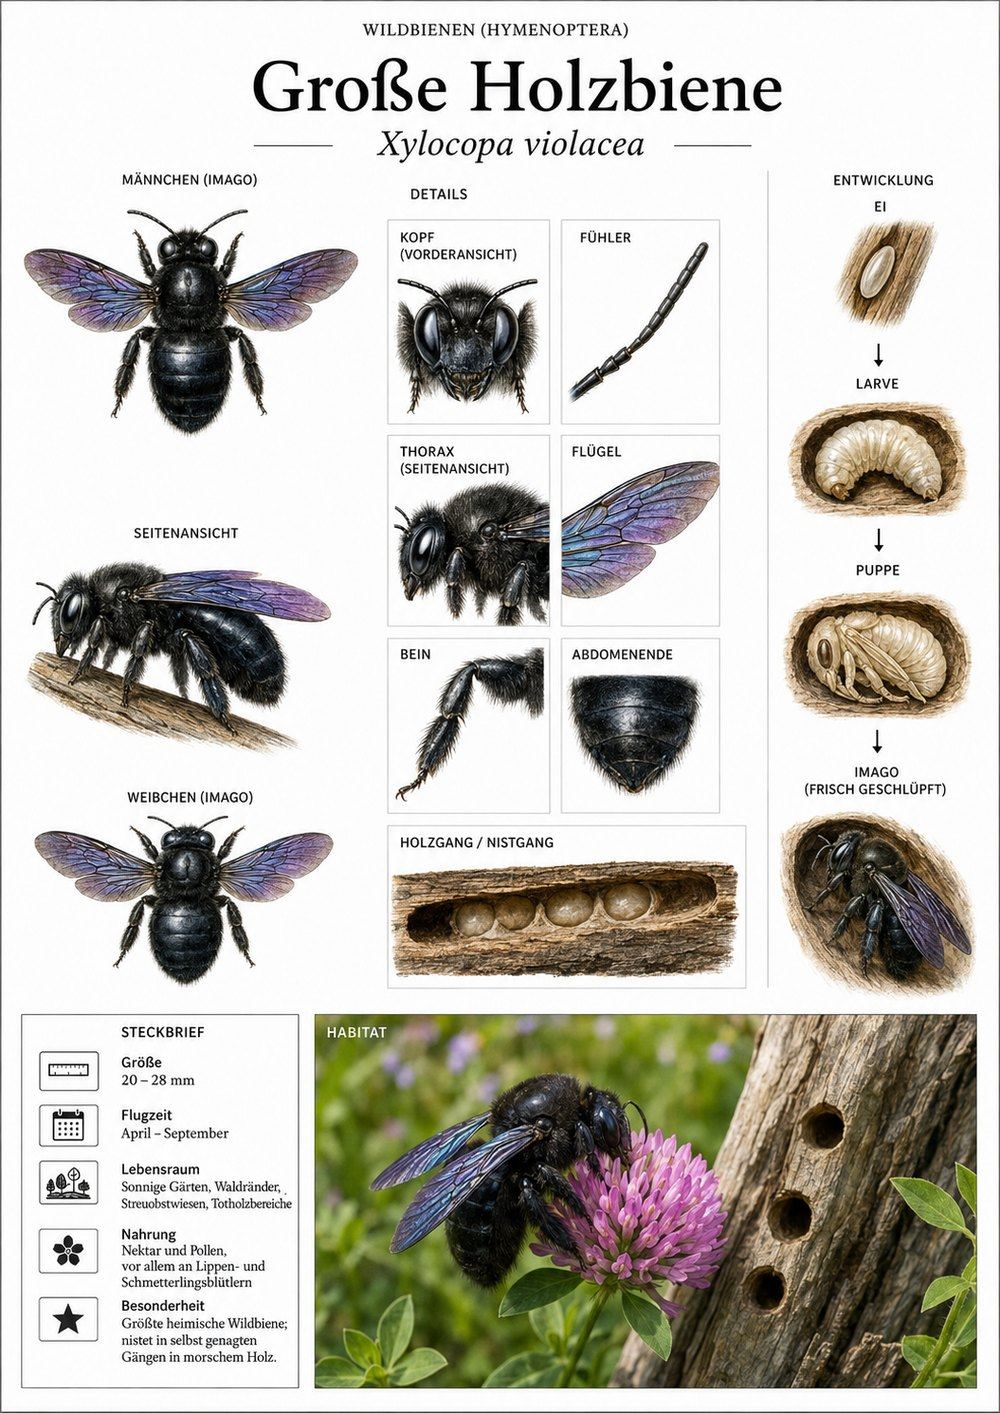
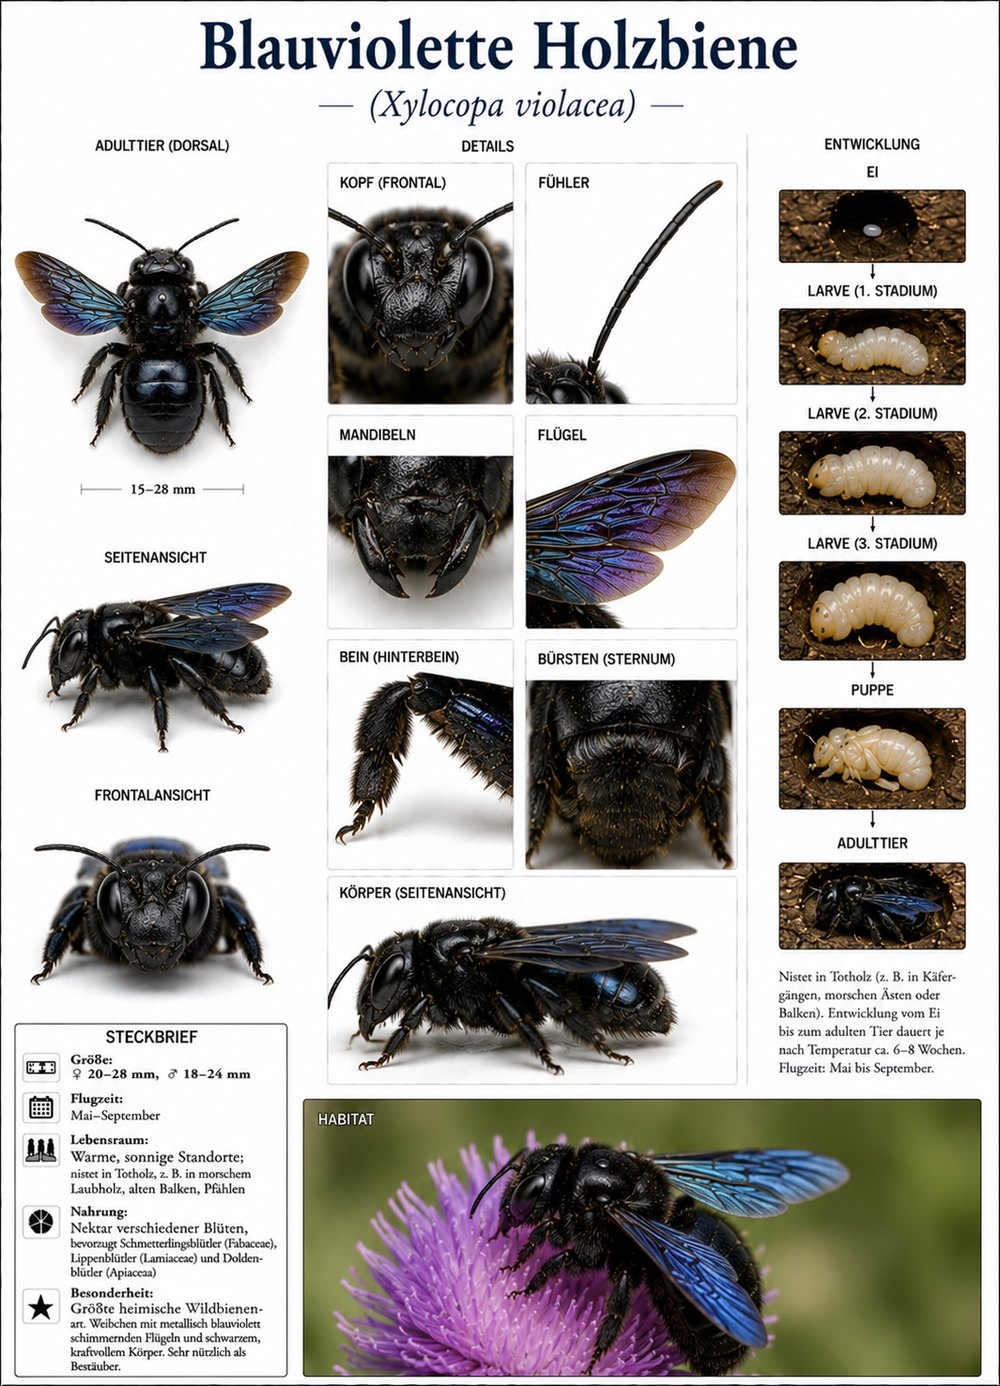
fauna: HD-Tafeln (Fleckenbiene, Langhornbiene, Trauerbiene) + Holzbiene→Blauviolette Holzbiene + SW v56/Media v4

diff --git a/arten/grosse-holzbiene.html b/arten/grosse-holzbiene.html
@@ -3,8 +3,8 @@
 <head>
 <meta charset="UTF-8">
 <meta name="viewport" content="width=device-width, initial-scale=1.0">
-<title>Große Holzbiene · Artseite · Fauna Mibaso</title>
-<meta name="description" content="Große Holzbiene (Xylocopa violacea): naturkundliche Tafel und Wissenswertes – Fauna Mibaso.">
+<title>Blauviolette Holzbiene · Artseite · Fauna Mibaso</title>
+<meta name="description" content="Blauviolette Holzbiene (Xylocopa violacea): naturkundliche Tafel und Wissenswertes – Fauna Mibaso.">
 <style>
   :root{
     --blau:#233D5C; --creme:#F7F3E8; --creme-tief:#EEE7D5;
@@ -44,18 +44,18 @@
 <body>
 <div class="huelle">
   <a class="zurueck" href="../interaktiv/stammbaum.html">‹ Stammbaum</a> <span style="color:#aab3bd">·</span> <a class="zurueck" href="../index.html">Startseite</a>
-  <p class="brot">Insekten › Hautflügler › Echte Bienen</p>
+  <p class="brot">Insekten › Hautflügler › Bienen & Hummeln</p>
 
   <div class="tafel">
-    <img src="../images/tafeln/grosse-holzbiene.jpg" alt="Naturkundliche Lehrtafel: Große Holzbiene (Xylocopa violacea)">
+    <img src="../images/tafeln/grosse-holzbiene.jpg" alt="Naturkundliche Lehrtafel: Blauviolette Holzbiene (Xylocopa violacea)">
   </div>
 
-  <h1>Große Holzbiene</h1>
+  <h1>Blauviolette Holzbiene</h1>
   <p class="lat">Xylocopa violacea</p>
   <div class="raenge">
     <span class="chip"><b>Klasse</b> Insekten</span>
     <span class="chip"><b>Ordnung</b> Hautflügler</span>
-    <span class="chip"><b>Familie</b> Echte Bienen</span>
+    <span class="chip"><b>Familie</b> Bienen & Hummeln</span>
   </div>
 
   <h3 class="abschnitt">Der blau schillernde Brummer</h3>

diff --git a/interaktiv/schluessel.html b/interaktiv/schluessel.html
@@ -247,6 +247,9 @@ const KNOTEN = {
       {t:"Klein: gelber Kragen, gelbes Band, rotorange Spitze; sehr früh", sw:"#C8531F", kurz:"klein, rote Spitze", ziel:"a_wiesenhummel"},
       {t:"Schlanker, nur bräunlich behaart; am Bienenstock oder an Waben", sw:"#8a6a3a", kurz:"Honigbiene", ziel:"a_honigbiene"},
       {t:"Kompakt, schwirrt im zeitigen Frühjahr an Lungenkraut/Taubnessel", sw:"#5a4a3a", kurz:"Pelzbiene", ziel:"a_gemeine-pelzbiene"},
+      {t:"Pelzig; Männchen mit körperlangen Fühlern (an Klee/Wicken)", sw:"#8a6a3a", kurz:"Langhornbiene", ziel:"a_mai-langhornbiene"},
+      {t:"Schwarz mit weißen Haarbüscheln (Kuckucksbiene)", sw:"#2c2c2c", kurz:"Trauerbiene", ziel:"a_gemeine-trauerbiene"},
+      {t:"Schwarz mit blau-weißen Punktreihen (Kuckucksbiene)", sw:"#2f4a8a", kurz:"Fleckenbiene", ziel:"a_fleckenbiene"},
       {t:"Eine andere Biene oder Hummel", kurz:"andere", ziel:"g_hymenoptera"},
     ]},
   k_wespen:{ frage:"Glatt und gelb-schwarz – wie groß?",
@@ -509,7 +512,7 @@ const KNOTEN = {
     text:"Pelzige Hummel mit zwei gelben Binden und weißem Hinterende – wichtige Bestäuberin und Frühaufsteherin."},
   "a_steinhummel":{ art:true, rang:"Insekt · Art", de:"Steinhummel", lat:"Bombus lapidarius", url:"../arten/steinhummel.html",
     text:"Tiefschwarz mit leuchtend rot-orangem Hinterende; nistet gern unter Steinen und ist sehr friedlich."},
-  "a_grosse-holzbiene":{ art:true, rang:"Insekt · Art", de:"Große Holzbiene", lat:"Xylocopa violacea", url:"../arten/grosse-holzbiene.html",
+  "a_grosse-holzbiene":{ art:true, rang:"Insekt · Art", de:"Blauviolette Holzbiene", lat:"Xylocopa violacea", url:"../arten/grosse-holzbiene.html",
     text:"Größte heimische Wildbiene: fast schwarz mit blau-violett schimmernden Flügeln, brummt laut – aber harmlos."},
   "a_gemeine-wespe":{ art:true, rang:"Insekt · Art", de:"Gemeine Wespe", lat:"Vespula vulgaris", url:"../arten/gemeine-wespe.html",
     text:"Die gelb-schwarze Wespe am Kuchen: staatenbildend, baut Nester aus selbst gemachtem „Papier“."},
@@ -525,6 +528,12 @@ const KNOTEN = {
     text:"Klein und früh: gelber Kragen, ein gelbes Band, rotorange Spitze."},
   "a_gemeine-pelzbiene":{ art:true, rang:"Insekt · Art", de:"Gemeine Pelzbiene", lat:"Anthophora plumipes", url:"../arten/gemeine-pelzbiene.html",
     text:"Pelzig und hummelartig, schwirrt im zeitigen Frühjahr an Lungenkraut und Taubnessel."},
+  "a_mai-langhornbiene":{ art:true, rang:"Insekt · Art", de:"Mai-Langhornbiene", lat:"Eucera longicornis", url:"../arten/mai-langhornbiene.html",
+    text:"Pelzige Wildbiene; Männchen mit körperlangen Fühlern. An Klee und Wicken, nistet im Boden."},
+  "a_gemeine-trauerbiene":{ art:true, rang:"Insekt · Art", de:"Gemeine Trauerbiene", lat:"Melecta albifrons", url:"../arten/gemeine-trauerbiene.html",
+    text:"Schwarz mit weißen Haarbüscheln; Kuckucksbiene, die ihre Eier in Pelzbienen-Nester legt."},
+  "a_fleckenbiene":{ art:true, rang:"Insekt · Art", de:"Fleckenbiene", lat:"Thyreus orbatus", url:"../arten/fleckenbiene.html",
+    text:"Schwarz mit blau-weißen Punktreihen; hübsche Kuckucksbiene bei der Pelzbiene."},
   "a_gehoernte-mauerbiene":{ art:true, rang:"Insekt · Art", de:"Gehörnte Mauerbiene", lat:"Osmia cornuta", url:"../arten/gehoernte-mauerbiene.html",
     text:"Schwarz pelzig mit rostroter Bauchbürste und winzigen „Hörnchen“ im Gesicht; sehr früh im Jahr."},
   "a_deutsche-wespe":{ art:true, rang:"Insekt · Art", de:"Deutsche Wespe", lat:"Vespula germanica", url:"../arten/deutsche-wespe.html",

diff --git a/interaktiv/stammbaum.html b/interaktiv/stammbaum.html
@@ -371,16 +371,19 @@ const baumDaten = {
                         ]},
                         {de:"Taillenwespen", lat:"Apocrita", info:"Mit deutlicher Wespentaille zwischen Brust und Hinterleib.", k:[
                           {de:"Stechimmen", lat:"Aculeata", info:"Bienen, Hummeln, Wespen und Ameisen – viele bilden Staaten.", k:[
-                            {de:"Echte Bienen", lat:"Apidae", info:"Hummeln und Holzbienen – wichtige Bestäuber.", k:[
+                            {de:"Bienen & Hummeln", lat:"Apidae", info:"Hummeln und Holzbienen – wichtige Bestäuber.", k:[
                               {de:"Dunkle Erdhummel", lat:"Bombus terrestris", art:true, url:"../arten/dunkle-erdhummel.html", info:"Häufige Hummel mit zwei gelben Binden und weißem Hinterende; wichtige Bestäuberin."},
                               {de:"Steinhummel", lat:"Bombus lapidarius", art:true, url:"../arten/steinhummel.html", info:"Tiefschwarz mit leuchtend rotem Hinterende; nistet gern unter Steinen."},
-                              {de:"Große Holzbiene", lat:"Xylocopa violacea", art:true, url:"../arten/grosse-holzbiene.html", info:"Größte heimische Wildbiene, schwarz mit blau schimmernden Flügeln; nistet in Totholz."},
+                              {de:"Blauviolette Holzbiene", lat:"Xylocopa violacea", art:true, url:"../arten/grosse-holzbiene.html", info:"Größte heimische Wildbiene; schwarz mit blau-violett schimmernden Flügeln, nistet in Totholz."},
                               {de:"Ackerhummel", lat:"Bombus pascuorum", art:true, url:"../arten/ackerhummel.html", info:"Durchgehend rostbraun behaart, ohne weißes Hinterende; nistet oft oberirdisch."},
                               {de:"Honigbiene", lat:"Apis mellifera", art:true, url:"../arten/honigbiene.html", info:"Staatenbildend mit Königin und Wachswaben; verständigt sich per Schwänzeltanz."},
                               {de:"Gartenhummel", lat:"Bombus hortorum", art:true, url:"../arten/gartenhummel.html", info:"Lange Zunge und langes Gesicht; kommt an besonders tiefe Blüten."},
                               {de:"Baumhummel", lat:"Bombus hypnorum", art:true, url:"../arten/baumhummel.html", info:"Fuchsrote Brust, weißes Hinterende; nistet gern in Nistkästen."},
                               {de:"Wiesenhummel", lat:"Bombus pratorum", art:true, url:"../arten/wiesenhummel.html", info:"Kleine, frühe Hummel mit gelbem Kragen und rotorangem Hinterende."},
-                              {de:"Gemeine Pelzbiene", lat:"Anthophora plumipes", art:true, url:"../arten/gemeine-pelzbiene.html", info:"Pelzige, schwirrende Frühlings-Wildbiene; Männchen mit hellem Gesicht."}
+                              {de:"Gemeine Pelzbiene", lat:"Anthophora plumipes", art:true, url:"../arten/gemeine-pelzbiene.html", info:"Pelzige, schwirrende Frühlings-Wildbiene; Männchen mit hellem Gesicht."},
+                              {de:"Mai-Langhornbiene", lat:"Eucera longicornis", art:true, url:"../arten/mai-langhornbiene.html", info:"Pelzig; Männchen mit körperlangen Fühlern. An Klee und Wicken, nistet im Boden."},
+                              {de:"Gemeine Trauerbiene", lat:"Melecta albifrons", art:true, url:"../arten/gemeine-trauerbiene.html", info:"Schwarz mit weißen Haarbüscheln; Kuckucksbiene bei der Pelzbiene."},
+                              {de:"Fleckenbiene", lat:"Thyreus orbatus", art:true, url:"../arten/fleckenbiene.html", info:"Schwarz mit blau-weißen Punktreihen; Kuckucksbiene bei der Pelzbiene."}
                             ]},
                             {de:"Faltenwespen", lat:"Vespidae", info:"Wespen und Hornissen – bauen Nester aus Papier.", k:[
                               {de:"Gemeine Wespe", lat:"Vespula vulgaris", art:true, url:"../arten/gemeine-wespe.html", info:"Gelb-schwarze Wespe an Kuchen und Saft; staatenbildend, baut Papiernester."},

diff --git a/arten/ackerhummel.html b/arten/ackerhummel.html
@@ -47,7 +47,7 @@
 <body>
 <div class="huelle">
   <a class="zurueck" href="../interaktiv/stammbaum.html">‹ Stammbaum</a> <span style="color:#aab3bd">·</span> <a class="zurueck" href="../index.html">Startseite</a>
-  <p class="brot">Insekten › Hautflügler › Echte Bienen</p>
+  <p class="brot">Insekten › Hautflügler › Bienen & Hummeln</p>
 
   <div class="tafel">
     <img src="../images/tafeln/ackerhummel.jpg" alt="Naturkundliche Lehrtafel: Ackerhummel (Bombus pascuorum)">
@@ -58,7 +58,7 @@
   <div class="raenge">
     <span class="chip"><b>Klasse</b> Insekten</span>
     <span class="chip"><b>Ordnung</b> Hautflügler</span>
-    <span class="chip"><b>Familie</b> Echte Bienen</span>
+    <span class="chip"><b>Familie</b> Bienen & Hummeln</span>
   </div>
 
   <div class="foto">

diff --git a/arten/baumhummel.html b/arten/baumhummel.html
@@ -44,7 +44,7 @@
 <body>
 <div class="huelle">
   <a class="zurueck" href="../interaktiv/stammbaum.html">‹ Stammbaum</a> <span style="color:#aab3bd">·</span> <a class="zurueck" href="../index.html">Startseite</a>
-  <p class="brot">Insekten › Hautflügler › Echte Bienen</p>
+  <p class="brot">Insekten › Hautflügler › Bienen & Hummeln</p>
 
   <div class="tafel">
     <img src="../images/tafeln/baumhummel.jpg" alt="Naturkundliche Lehrtafel: Baumhummel (Bombus hypnorum)">
@@ -55,7 +55,7 @@
   <div class="raenge">
     <span class="chip"><b>Klasse</b> Insekten</span>
     <span class="chip"><b>Ordnung</b> Hautflügler</span>
-    <span class="chip"><b>Familie</b> Echte Bienen</span>
+    <span class="chip"><b>Familie</b> Bienen & Hummeln</span>
   </div>
 
   <h3 class="abschnitt">Die mit dem Fuchsschwanz</h3>

diff --git a/arten/dunkle-erdhummel.html b/arten/dunkle-erdhummel.html
@@ -44,7 +44,7 @@
 <body>
 <div class="huelle">
   <a class="zurueck" href="../interaktiv/stammbaum.html">‹ Stammbaum</a> <span style="color:#aab3bd">·</span> <a class="zurueck" href="../index.html">Startseite</a>
-  <p class="brot">Insekten › Hautflügler › Echte Bienen</p>
+  <p class="brot">Insekten › Hautflügler › Bienen & Hummeln</p>
 
   <div class="tafel">
     <img src="../images/tafeln/dunkle-erdhummel.jpg" alt="Naturkundliche Lehrtafel: Dunkle Erdhummel (Bombus terrestris)">
@@ -55,7 +55,7 @@
   <div class="raenge">
     <span class="chip"><b>Klasse</b> Insekten</span>
     <span class="chip"><b>Ordnung</b> Hautflügler</span>
-    <span class="chip"><b>Familie</b> Echte Bienen</span>
+    <span class="chip"><b>Familie</b> Bienen & Hummeln</span>
   </div>
 
   <h3 class="abschnitt">Der pelzige Frühaufsteher</h3>

diff --git a/arten/gartenhummel.html b/arten/gartenhummel.html
@@ -44,7 +44,7 @@
 <body>
 <div class="huelle">
   <a class="zurueck" href="../interaktiv/stammbaum.html">‹ Stammbaum</a> <span style="color:#aab3bd">·</span> <a class="zurueck" href="../index.html">Startseite</a>
-  <p class="brot">Insekten › Hautflügler › Echte Bienen</p>
+  <p class="brot">Insekten › Hautflügler › Bienen & Hummeln</p>
 
   <div class="tafel">
     <img src="../images/tafeln/gartenhummel.jpg" alt="Naturkundliche Lehrtafel: Gartenhummel (Bombus hortorum)">
@@ -55,7 +55,7 @@
   <div class="raenge">
     <span class="chip"><b>Klasse</b> Insekten</span>
     <span class="chip"><b>Ordnung</b> Hautflügler</span>
-    <span class="chip"><b>Familie</b> Echte Bienen</span>
+    <span class="chip"><b>Familie</b> Bienen & Hummeln</span>
   </div>
 
   <h3 class="abschnitt">Die Langzüngige</h3>

diff --git a/arten/gemeine-pelzbiene.html b/arten/gemeine-pelzbiene.html
@@ -44,7 +44,7 @@
 <body>
 <div class="huelle">
   <a class="zurueck" href="../interaktiv/stammbaum.html">‹ Stammbaum</a> <span style="color:#aab3bd">·</span> <a class="zurueck" href="../index.html">Startseite</a>
-  <p class="brot">Insekten › Hautflügler › Echte Bienen</p>
+  <p class="brot">Insekten › Hautflügler › Bienen & Hummeln</p>
 
   <div class="tafel">
     <img src="../images/tafeln/gemeine-pelzbiene.jpg" alt="Naturkundliche Lehrtafel: Gemeine Pelzbiene (Anthophora plumipes)">
@@ -55,7 +55,7 @@
   <div class="raenge">
     <span class="chip"><b>Klasse</b> Insekten</span>
     <span class="chip"><b>Ordnung</b> Hautflügler</span>
-    <span class="chip"><b>Familie</b> Echte Bienen</span>
+    <span class="chip"><b>Familie</b> Bienen & Hummeln</span>
   </div>
 
   <h3 class="abschnitt">Der pelzige Frühlings-Brummkreisel</h3>

diff --git a/arten/honigbiene.html b/arten/honigbiene.html
@@ -44,7 +44,7 @@
 <body>
 <div class="huelle">
   <a class="zurueck" href="../interaktiv/stammbaum.html">‹ Stammbaum</a> <span style="color:#aab3bd">·</span> <a class="zurueck" href="../index.html">Startseite</a>
-  <p class="brot">Insekten › Hautflügler › Echte Bienen</p>
+  <p class="brot">Insekten › Hautflügler › Bienen & Hummeln</p>
 
   <div class="tafel">
     <img src="../images/tafeln/honigbiene.jpg" alt="Naturkundliche Lehrtafel: Honigbiene (Apis mellifera)">
@@ -55,7 +55,7 @@
   <div class="raenge">
     <span class="chip"><b>Klasse</b> Insekten</span>
     <span class="chip"><b>Ordnung</b> Hautflügler</span>
-    <span class="chip"><b>Familie</b> Echte Bienen</span>
+    <span class="chip"><b>Familie</b> Bienen & Hummeln</span>
   </div>
 
   <h3 class="abschnitt">Die mit dem Honig</h3>

diff --git a/arten/wiesenhummel.html b/arten/wiesenhummel.html
@@ -44,7 +44,7 @@
 <body>
 <div class="huelle">
   <a class="zurueck" href="../interaktiv/stammbaum.html">‹ Stammbaum</a> <span style="color:#aab3bd">·</span> <a class="zurueck" href="../index.html">Startseite</a>
-  <p class="brot">Insekten › Hautflügler › Echte Bienen</p>
+  <p class="brot">Insekten › Hautflügler › Bienen & Hummeln</p>
 
   <div class="tafel">
     <img src="../images/tafeln/wiesenhummel.jpg" alt="Naturkundliche Lehrtafel: Wiesenhummel (Bombus pratorum)">
@@ -55,7 +55,7 @@
   <div class="raenge">
     <span class="chip"><b>Klasse</b> Insekten</span>
     <span class="chip"><b>Ordnung</b> Hautflügler</span>
-    <span class="chip"><b>Familie</b> Echte Bienen</span>
+    <span class="chip"><b>Familie</b> Bienen & Hummeln</span>
   </div>
 
   <h3 class="abschnitt">Klein, früh und flink</h3>

diff --git a/sw.js b/sw.js
@@ -17,8 +17,8 @@
    Nur wenn sich Bilder ändern, zusätzlich die MEDIA-Version erhöhen.
 */
 
-const SHELL_CACHE = 'fauna-shell-v54';
-const MEDIA_CACHE = 'fauna-media-v3';
+const SHELL_CACHE = 'fauna-shell-v56';
+const MEDIA_CACHE = 'fauna-media-v4';
 const MANIFEST_URL = './offline-manifest.json';
 
 // Kern-Hülle: das Nötigste für den Start (klein, schnell).